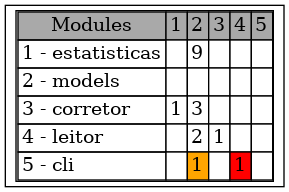
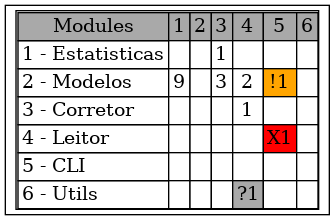
Adiciona suporte a alertas

diff --git a/tsarch/src/conformancer/conformancer.ts b/tsarch/src/conformancer/conformancer.ts
@@ -1,5 +1,6 @@
 import { Module } from "../ruler/rules";
 import { TypeScriptModule } from "../analyzer/typescript_module";
+import { string } from "yargs";
 
 export interface Occurrence {
     line?: number
@@ -12,9 +13,10 @@ export interface Occurrence {
 }
 
 export interface Report {
-    divergencies: Occurrence[],
-    convergencies: Occurrence[],
+    divergencies: Occurrence[]
+    convergencies: Occurrence[]
     absences: Occurrence[]
+    alerts: Occurrence[]
 }
 
 function mapFileToModule(rules: Map<string, Module>): Map<string, string> {
@@ -28,7 +30,8 @@ export function check(symbols: TypeScriptModule[], rules: Map<string, Module>): 
     let occurrencies: Report = {
         divergencies: [],
         convergencies: [],
-        absences: []
+        absences: [],
+        alerts: []
     }
     symbols.forEach(file => {
         let actualModule = fileToModule.get(file.moduleName)
@@ -47,10 +50,14 @@ export function check(symbols: TypeScriptModule[], rules: Map<string, Module>): 
 }
 
 function verify(module: TypeScriptModule, rule: Module, fileToModule: Map<string, string>, occurrencies: Report): Report {
-    occurrencies = verifyEntity(module, rule, fileToModule, occurrencies)
-    occurrencies = verifyCustomType(module, rule, fileToModule, occurrencies)
-    occurrencies = verifyImportation(module, rule, fileToModule, occurrencies)
-    return findAbsences(module, rule, fileToModule, occurrencies)
+    function partial(func: (m: TypeScriptModule, r: Module, f: Map<string, string>, o: Report) => Report): Report {
+        return func(module, rule, fileToModule, occurrencies)
+    }
+    occurrencies = partial(verifyEntity)
+    occurrencies = partial(verifyCustomType)
+    occurrencies = partial(verifyImportation)
+    occurrencies = partial(findAbsences)
+    return partial(findAlerts)
 }
 
 function verifyEntity(module: TypeScriptModule, rule: Module, fileToModule: Map<string, string>, occurrencies: Report): Report {
@@ -118,25 +125,48 @@ function verifyImportation(module: TypeScriptModule, rule: Module, fileToModule:
     return occurrencies
 }
 
-function findAbsences(module: TypeScriptModule, rule: Module, fileToModule: Map<string, string>, occurrencies: Report): Report {
-    if (rule.required === undefined || rule.required.length <= 0) {
-        return occurrencies
-    }
+function getUsedModulesAndFiles(module: TypeScriptModule, fileToModule: Map<string, string>): string[] {
     let dependedFiles: string[] = []
     module.entities.forEach(entities => entities.forEach(entity => dependedFiles.push(...entity.typeReference)))
     module.types.forEach(customTypes => customTypes.forEach(customType => dependedFiles.push(...customType.typeReferences)))
     module.importations.forEach(importations => dependedFiles.push(importations.source))
-
-    dependedFiles = [...new Set(dependedFiles)]
-    let requiredModules = [...new Set(rule.required?.map(requiredFiles => fileToModule.get(requiredFiles)))]
-    let satisfiedModules = new Set<string>()
-    rule.required?.forEach(requiredFile => {
-        if (dependedFiles.some(file => requiredFile === file)) {
-            let mod = fileToModule.get(requiredFile)
-            if (mod !== undefined)
-                satisfiedModules.add(mod)
+    let dependedModules = new Set<string>()
+    dependedFiles.forEach(file => {
+        let module = fileToModule.get(file)
+        if (module) {
+            dependedModules.add(module)
         }
     })
+    return [...dependedModules, ...dependedFiles]
+}
+
+function findAlerts(module: TypeScriptModule, rule: Module, fileToModule: Map<string, string>, occurrencies: Report): Report {
+    if (!rule.originalAllowed || rule.originalAllowed.length <= 0) {
+        return occurrencies
+    }
+    let allowedModules = rule.originalAllowed
+    let satisfiedModules = new Set(getUsedModulesAndFiles(module, fileToModule))
+
+    allowedModules.forEach(allowed => {
+        if (allowed !== undefined)
+            if (!satisfiedModules.has(allowed)) {
+                occurrencies.alerts.push({
+                    originModule: fileToModule.get(module.moduleName),
+                    targetModule: allowed,
+                })
+            }
+    })
+
+    return occurrencies
+}
+
+function findAbsences(module: TypeScriptModule, rule: Module, fileToModule: Map<string, string>, occurrencies: Report): Report {
+    if (!rule.required || rule.required.length <= 0) {
+        return occurrencies
+    }
+
+    let requiredModules = rule.required
+    let satisfiedModules = new Set(getUsedModulesAndFiles(module, fileToModule))
 
     requiredModules.forEach(required => {
         if (required !== undefined)

diff --git a/tsarch/src/visualizer/dsm.ts b/tsarch/src/visualizer/dsm.ts
@@ -1,6 +1,6 @@
 import { Digraph } from "ts-graphviz";
 import { Graph } from "./graph";
-import {render} from "../utils/render"
+import { render } from "../utils/render"
 
 interface Data {
     size?: number,
@@ -8,14 +8,14 @@ interface Data {
 }
 
 export class DSM extends Graph {
-    generate(): void {
+    generate(name: string): void {
         let edges = this.getEdges()
         let nodes = new Map<string, number>()
         let index = 0
         edges.forEach(edge => {
             if (!nodes.has(edge.from)) {
                 nodes.set(edge.from, index)
-                index++ 
+                index++
             }
             if (!nodes.has(edge.to)) {
                 nodes.set(edge.to, index)
@@ -24,7 +24,7 @@ export class DSM extends Graph {
         })
 
         let matrix: Data[][] = []
-        for(let i = 0; i < index; i++) {
+        for (let i = 0; i < index; i++) {
             matrix.push([])
             nodes.forEach(_ => matrix[i].push({}))
         }
@@ -33,13 +33,13 @@ export class DSM extends Graph {
             let from = nodes.get(edge.from)
             let to = nodes.get(edge.to)
             if (from === undefined || to === undefined) return
-            matrix[from][to] = {size: edge.size , type: edge.type}
+            matrix[to][from] = { size: edge.size, type: edge.type }
         })
         let n: string[] = new Array(matrix.length)
         nodes.forEach((value, key) => n[value] = key)
-        this.render(matrix, n)
+        this.render(matrix, n, name)
     }
-    render(matrix: Data[][], nodes: string[]) {
+    render(matrix: Data[][], nodes: string[], name: string) {
         let table = new Digraph()
         //...nodes.map((node, index) => `<TD colspan="2">${index} - ${node}</TD>`),
 
@@ -47,12 +47,27 @@ export class DSM extends Graph {
             let script = [
                 '<TR>',
                 // Escrever o side header
-                `<TD colspan="2" align="LEFT">${index+1} - ${nodes[index]}</TD>`,
+                `<TD colspan="2" align="LEFT">${index + 1} - ${nodes[index]}</TD>`,
                 ...line.map(data => {
                     let c = "white"
                     c = data.type == "absence" ? "red" : c
                     c = data.type == "divergence" ? "orange" : c
-                    return `<TD bgcolor="${c}">${data.size ? data.size : ""}</TD>`
+                    c = data.type == "alert" ? "darkgray" : c
+
+                    let style = new Map()
+                    style.set("absence", {
+                        color: "red",
+                        symbol: "X"
+                    })
+                    style.set("divergence", {
+                        color: "orange",
+                        symbol: "!",
+                    })
+                    style.set("alert", {
+                        color: "darkgray",
+                        symbol: "?",
+                    })
+                    return `<TD bgcolor="${style.get(data.type)?.color ?? "white"}">${style.get(data.type)?.symbol ?? ""}${data.size ?? ""}</TD>`
                 }),
                 '</TR>'
             ]
@@ -63,12 +78,12 @@ export class DSM extends Graph {
             label: ["<",
                 '<TABLE border="1" cellspacing="0">',
                 '<TH><TD colspan="2" bgcolor="darkgray">Modules</TD>',
-                ...nodes.map((node, index) => `<TD bgcolor="darkgray">${index+1}</TD>`),
+                ...nodes.map((node, index) => `<TD bgcolor="darkgray">${index + 1}</TD>`),
                 '</TH>',
                 ...lines,
                 '</TABLE>>'].join("\n"),
             shape: "rect"
         })
-        render(table, "b.png")
+        render(table, name)
     }
 }

diff --git a/tsarch/src/visualizer/graph.ts b/tsarch/src/visualizer/graph.ts
@@ -15,7 +15,7 @@ function edgeHelper(occurence: Occurrence, edges: Map<string, Edge>, type: strin
     if (occurence.originModule === undefined || occurence.targetModule === undefined) return
     if (occurence.originModule === occurence.targetModule) return
     // let edge = edges.get(occurence.originModule+"+"+occurence.targetModule+"+"+type)
-    let edge = edges.get(occurence.originModule+"+"+occurence.targetModule)
+    let edge = edges.get(occurence.originModule + "+" + occurence.targetModule)
     if (edge === undefined) {
         edge = {
             from: occurence.originModule,
@@ -32,7 +32,7 @@ function edgeHelper(occurence: Occurrence, edges: Map<string, Edge>, type: strin
         edge.size = 1
     }
     // edges.set(occurence.originModule+"+"+occurence.targetModule+"+"+type, edge)
-    edges.set(occurence.originModule+"+"+occurence.targetModule, edge)
+    edges.set(occurence.originModule + "+" + occurence.targetModule, edge)
 }
 
 interface Complement {
@@ -42,7 +42,7 @@ interface Complement {
 }
 
 export class Graph extends Viewer {
-    generate(): void {
+    generate(name: string): void {
         let nodes = new Set<string>()
         let edges = this.getEdges()
         edges.forEach(edge => {
@@ -79,6 +79,11 @@ export class Graph extends Viewer {
             color: "orange",
             style: "dashed"
         })
+        complements.set("alert", {
+            label: (size: number) => `?(#${size})`,
+            color: "darkgray",
+            style: "dotted"
+        })
         edges.forEach(edge => {
             let complement = complements.get(edge.type)
             if (complement == undefined) return
@@ -91,14 +96,15 @@ export class Graph extends Viewer {
             }
             graph.createEdge([edge.from, edge.to], edgeAttributes)
         })
-        render(graph, "a.png")
+        render(graph, name)
     }
-    
+
     getEdges(): Edge[] {
         let edges = new Map<string, Edge>()
         this.convergencies.forEach(occurence => edgeHelper(occurence, edges, "convergence"))
         this.absences.forEach(occurence => edgeHelper(occurence, edges, "absence"))
         this.divergencies.forEach(occurence => edgeHelper(occurence, edges, "divergence"))
+        this.alerts.forEach(occurence => edgeHelper(occurence, edges, "alert"))
         let ed: Edge[] = []
         edges.forEach(edge => ed.push(edge))
         return ed

diff --git a/tsarch/src/ruler/rules.ts b/tsarch/src/ruler/rules.ts
@@ -7,6 +7,8 @@ export interface Module {
     allowed?: string[]
     forbidden?: string[]
     required?: string[]
+    packages?: string[]
+    originalAllowed?: string[]
 }
 
 export function getRules(rulesPath: string, files: string[]): Map<string, Module> {
@@ -48,19 +50,24 @@ function expandModule(rules: Map<string, Module>, escope: string[] | undefined, 
 function expandRules(rulePath: string, rules: Map<string, Module>, files: string[]): Map<string, Module> {
     const modules = [...rules.keys()]
     // Normalize paths according rules file path
-    rules.forEach(module => module.files = makeAbsolute(rulePath, module.files))
+    rules.forEach(module => {
+        if (module.files) {
+            module.files = makeAbsolute(rulePath, module.files)
+        }
+    })
     // Transform generic form into especific file name
     rules.forEach(module => {
         module.files = expandRule(files, module.files)
         module.allowed = expandRule(files, module.allowed)
         module.forbidden = expandRule(files, module.forbidden)
         module.required = expandRule(files, module.required)
+        module.originalAllowed = module.allowed
     })
     // Transform module name into files
     rules.forEach(module => {
         module.allowed = expandModule(rules, module.allowed, modules)
         module.forbidden = expandModule(rules, module.forbidden, modules)
-        module.required = expandModule(rules, module.required, modules)
+        // module.required = expandModule(rules, module.required, modules)
     })
     // Transform into allowed
     rules.forEach(module => {

diff --git a/tsarch/src/tsarch/app.ts b/tsarch/src/tsarch/app.ts
@@ -14,11 +14,12 @@ export function verify(directory: string, rulerFile?: string) {
     try {
         const rules = getRules(rule, files)
         const report = check(symbols, rules)
-        new Graph(report.divergencies, report.convergencies, report.absences).generate()
-        new Textual(report.divergencies, report.convergencies, report.absences).generate()
-        new DSM(report.divergencies, report.convergencies, report.absences).generate()
+        new Graph(report.divergencies, report.convergencies, report.absences, report.alerts).generate("graph.png")
+        new Textual(report.divergencies, report.convergencies, report.absences, report.alerts).generate("results.json")
+        new DSM(report.divergencies, report.convergencies, report.absences, report.alerts).generate("dsm.png")
     }
     catch (err) {
+        console.log(err)
         if (err instanceof Error) {
             console.log((err as Error).message)
         }

diff --git a/tsarch/src/visualizer/viewer.ts b/tsarch/src/visualizer/viewer.ts
@@ -1,14 +1,16 @@
 import { Report, Occurrence } from "../conformancer/conformancer";
 
-export abstract class Viewer{
+export abstract class Viewer {
     divergencies: Occurrence[]
     convergencies: Occurrence[]
     absences: Occurrence[]
-    constructor(divergencies: Occurrence[], convergencies: Occurrence[], absences: Occurrence[]) {
+    alerts: Occurrence[]
+    constructor(divergencies: Occurrence[], convergencies: Occurrence[], absences: Occurrence[], alerts: Occurrence[]) {
         this.absences = absences
         this.divergencies = divergencies
         this.convergencies = convergencies
+        this.alerts = alerts
     }
 
-    abstract generate(): void
+    abstract generate(name: string): void
 }

diff --git a/tsarch/src/visualizer/textual.ts b/tsarch/src/visualizer/textual.ts
@@ -2,7 +2,7 @@ import { writeJSON } from "../utils/fileSystem";
 import { Viewer } from "./viewer";
 
 export class Textual extends Viewer {
-    generate(): void {
-        writeJSON({"ABSENCES": this.absences, "DIVERGENCES": this.divergencies}, "results.json")       
+    generate(name: string): void {
+        writeJSON({ "ABSENCES": this.absences, "DIVERGENCES": this.divergencies, "ALERTS": this.alerts }, name)
     }
 }
